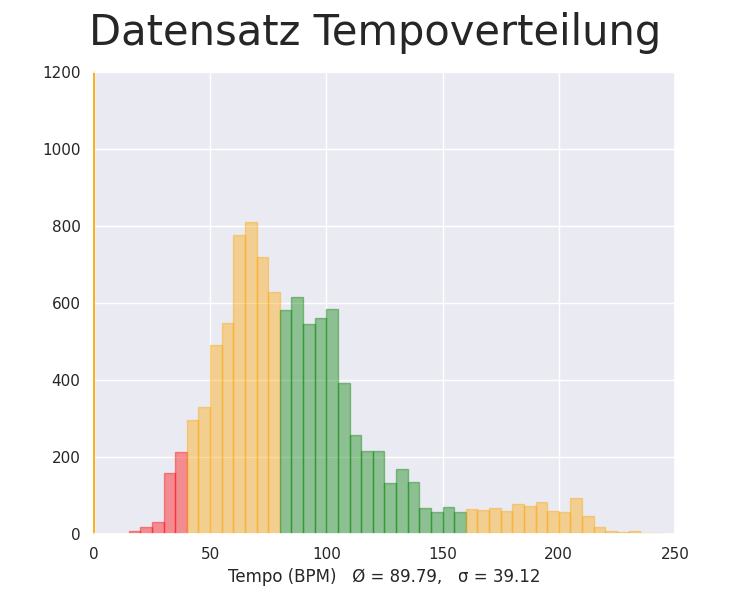
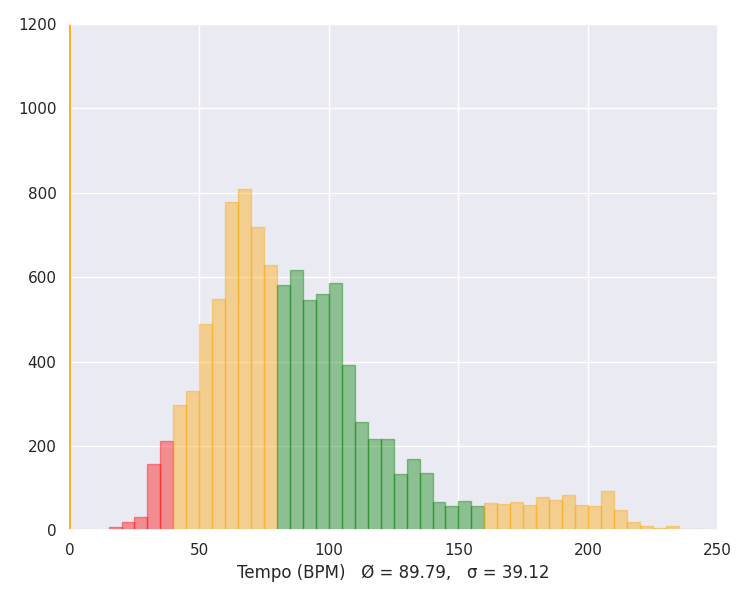
06 Ergebnisse und Auswertung/längste korrekte Beatfolge geschrieben

diff --git a/Arbeit/chapter/06_ergebnisse.tex b/Arbeit/chapter/06_ergebnisse.tex
@@ -2,14 +2,15 @@
 \label{ergebnisse}
 
 % TODO: entweder Bezug auf die Fragen aus Kapitel 5 nehmen oder se ganz weg lassen
+% TODO: nochma gucken, was genau in Ergebnisse und was in Auswertung kommt
 
 \section{Tempofehler}
 {
 	\subsection{Ergebnisse}
 	{
 		\begin{figure}[h]
-			\hspace{-2.8cm}
-			\includegraphics[scale=0.45]{resources/tempo_error_histogram.png}
+			\hspace{-17mm}
+			\includegraphics[scale=0.4]{resources/tempo_error_histogram.png}
 			\caption{
 				oben: Histogramme der Tempofehler, \\
 				unten: Anzahl der Lieder, bei denen das halbe/korrekte/doppelte Tempo erkannt wurde
@@ -115,15 +116,14 @@
 
 \section{Beatzeitpunktfehler}
 {
+	\label{ergebnisse/beatzeitpunktfehler}
+
 	\subsection{Ergebnisse}
 	{
 		\begin{figure}[h]
-			\includegraphics[scale=0.5]{resources/beat_positions.png}
-			\caption{
-				oben: Histogramme der Beatzeitpunktfehler, \\
-				mitte: Verteilung der längsten korrekten Beatfolgen, \\
-				unten: Anzahl der Lieder, bei denen die Beatfolge mit halbem/korrektem/doppeltem Tempo erkannt wurde.
-			}
+			\centering
+			\includegraphics[scale=0.47]{resources/beat_positions.png}
+			\caption{Histogramme der Beatzeitpunktfehler}
 			\label{fig:beaterror}
 		\end{figure}
 
@@ -144,7 +144,7 @@
 			\label{tab:pairnum}
 		\end{table}
 
-		In Abbildung~\ref{fig:beaterror} oben ist die Verteilung der Fehler aller Beatpaare zu sehen.
+		In Abbildung~\ref{fig:beaterror} ist die Verteilung der Fehler aller Beatpaare zu sehen.
 		Die Histogramme zeigen nur die Fehler,
 			der gepaarten Beats,
 			enthalten jedoch keine Informationen über die ungepaarten Beatvorhersagen.
@@ -154,12 +154,6 @@
 			dass die Lieder,
 			je nachdem ob sie der Algorithmus mit halbem, korrektem oder doppeltem Tempo erkennt,
 			unterschiedlich viele Beats haben.
-		Die Graphen in der Mitte von Abbildung~\ref{fig:beaterror} zeigen eine vertikel gespiegelte kumulative Verteilunsfunktion.
-		So kann man für jede Beatfolgenlänge ablsesen,
-			in wievielen Liedern (prozentual) eine korrekte Beatfolge mit mindestens dieser Länge erkannt wurde.
-		Die Balkendiagramme unten zeigen pro Algorithmus,
-			bei wievielen Liedern eine Beatfolge mit halbem, korrektem oder doppeltem Tempo als Referenzbeatfolge genommen wurde.
-		Ob die Referenzbeatfolge um $\pi$ phasenverschoben wurde, oder nicht, ist nicht zu sehen.
 	}
 
 	\subsection{Auswertung}
@@ -197,8 +191,34 @@
 
 \section{längste korrekte Beatfolge}
 {
-	Die längste korrekte Beatfolge von~\cite{2009_DaPlSt} ist \num{86}.
-	\cite{2011_RoPlSt} hingegen hat Beatfolge von \num{39} Schlägen korrekt erfasst.
+	\subsection{Ergebnisse}
+	{
+		% TODO: wäre sau geil, wenn beide Kurven in einem Diagram wären
+		\begin{figure}[h]
+			\centering
+			\includegraphics[scale=0.47]{resources/longest_streak.png}
+			\caption{Verteilung der längsten korrekten Beatfolgen}
+			\label{fig:longest_streak}
+		\end{figure}
+
+		Die Graphen in Abbildung~\ref{fig:longest_streak} zeigen eine vertikel gespiegelte kumulative Verteilunsfunktion.
+		So kann man für jede Beatfolgenlänge ablsesen,
+			in wievielen Liedern (prozentual) eine korrekte Beatfolge mit mindestens dieser Länge erkannt wurde.
+
+		Die längste korrekte Beatfolge von~\cite{2009_DaPlSt} ist \num{86}.
+		\cite{2011_PlRoSt} hingegen hat maximal eine  Beatfolge von \num{30} Schlägen korrekt erfasst.
+		Generell hat~\cite{2009_DaPlSt} für jede beliebige Beatfolgenlänge eine größere Anzahl an Liedern,
+			bei denen eine mindesten so lange Beatfolge korrekt erfasst wurde.
+	}
+
+	\subsection{Auswertung}
+	{
+		Die Ergebnisse hier lassen sich genauso wie die Ergebnisse in Abschnitt~\ref{ergebnisse/beatzeitpunktfehler} erklären.
+		Wahrscheinlich hat~\cite{2011_PlRoSt} das Tempo zu schnell geschätzt,
+			wodurch zu viele Beatzeitpunkte ausgegeben wurden.
+		Dadurch wird natürlich jede lange korrekte Beatfolge durch viele ungepaarte Beats unterbrochen.
+	}
+
 }
 
 \section{Rechenzeit}

diff --git a/Testdatenauswertung/beat_positions.py b/Testdatenauswertung/beat_positions.py
@@ -20,15 +20,19 @@ def main(args: argparse.Namespace):
 		if ex in tr_file_groups:
 			del tr_file_groups[ex]
 
-	fig, axes = plt.subplots(
-		3, len(tr_file_groups),
-		figsize=(6 * len(tr_file_groups), 3 * 6)
+	fig0, axes0 = plt.subplots(
+		1, len(tr_file_groups),
+		figsize=(6 * len(tr_file_groups), 1 * 6)
+	)
+	fig1, axes1 = plt.subplots(
+		1, len(tr_file_groups),
+		figsize=(6 * len(tr_file_groups), 1 * 6)
 	)
 
 	for s, (system, tr_fnames) in enumerate(tr_file_groups.items()):
 		all_pairs = []
 		streak_lengths = []
-		i_cnt = {0: 0, 1: 0, 2: 0}
+		# i_cnt = {0: 0, 1: 0, 2: 0}
 
 		n_correct_beats = 0
 		n_predicted_beats = 0
@@ -40,7 +44,7 @@ def main(args: argparse.Namespace):
 
 			best_steak = []
 			best_streak_pairs = []
-			best_streak_ij = (None, None)
+			# best_streak_ij = (None, None)
 			best_alt_gt_beats = []
 
 			for i in range(3):
@@ -57,12 +61,12 @@ def main(args: argparse.Namespace):
 					if len(streak) > len(best_steak):
 						best_steak = streak
 						best_streak_pairs = pairs
-						best_streak_ij = (i, j)
+						# best_streak_ij = (i, j)
 						best_alt_gt_beats = alt_gt_beats
 
 			all_pairs.extend(best_streak_pairs)
 			streak_lengths.append(len(best_steak))
-			i_cnt[best_streak_ij[0]] += 1
+			# i_cnt[best_streak_ij[0]] += 1
 			n_correct_beats += len(best_alt_gt_beats)
 			n_predicted_beats += len(tr_beats)
 
@@ -78,26 +82,26 @@ def main(args: argparse.Namespace):
 		)
 
 		sb.distplot(
-			errors, ax=axes[0, s],
+			errors, ax=axes0[s],
 			hist=True, kde=False,
 			bins=[i / 20.0 for i in range(21)]
 		)
-		axes[0, s].set_xlim(0, 1)
-		axes[0, s].set_xlabel(f'Normalisierter Fehler')
-		axes[0, s].set_ylim(0, 1200)
-		axes[0, s].set_title(SYSTEM_TO_TITLE[system], fontsize=16)
+		axes0[s].set_xlim(0, 1)
+		axes0[s].set_xlabel(f'Normalisierter Fehler')
+		axes0[s].set_ylim(0, 1200)
+		axes0[s].set_title(SYSTEM_TO_TITLE[system], fontsize=16)
 
 		sb.distplot(
-			streak_lengths, ax=axes[1, s],
+			streak_lengths, ax=axes1[s],
 			hist=False, kde=True,
 			kde_kws={'cumulative': True}
 		)
-		axes[1, s].set_xlim(0, 90)
-		axes[1, s].invert_yaxis()
-		axes[1, s].set_yticklabels(['100', '80', '60', '40', '20', '0'])
-		axes[1, s].set_ylabel('Anzahl der Lieder (prozentual)')
+		axes1[s].set_xlim(0, 90)
+		axes1[s].invert_yaxis()
+		axes1[s].set_yticklabels(['100', '80', '60', '40', '20', '0'])
+		axes1[s].set_ylabel('Anzahl der Lieder (prozentual)')
 		percs = percentiles(streak_lengths, [0.0, 0.2, 0.5, 0.8, 1.0])
-		axes[1, s].set_xlabel(
+		axes1[s].set_xlabel(
 			f'längste korrekte Beatfolge (1 - CDF)\n'
 			f'min: {percs[0]},   '
 			f'80%: {percs[1]},   '
@@ -105,21 +109,24 @@ def main(args: argparse.Namespace):
 			f'20%: {percs[3]},   '
 			f'max: {percs[4]}'
 		)
+		axes1[s].set_title(SYSTEM_TO_TITLE[system], fontsize=16)
 
-		sb.barplot(
-			ax=axes[2, s],
-			x=['halb', 'korrekt', 'doppelt'],
-			y=[v for k, v in sorted(i_cnt.items())]
-		)
-		axes[2, s].set_ylim(0, 150)
+	# sb.barplot(
+		# 	ax=axes[2, s],
+		# 	x=['halb', 'korrekt', 'doppelt'],
+		# 	y=[v for k, v in sorted(i_cnt.items())]
+		# )
+		# axes[2, s].set_ylim(0, 150)
 
-	fig.suptitle('', fontsize=30)
-	fig.savefig(
-		args.output,
-		dpi=args.dpi,
-		pad_inches=0
-	)
-	logging.info(f'Created PNG file {args.output}')
+	fig0.suptitle('', fontsize=30)
+	fig0.tight_layout()
+	fig0.savefig(args.output[0], dpi=args.dpi, pad_inches=0)
+	logging.info(f'Created PNG file {args.output[0]}')
+
+	fig1.suptitle('', fontsize=30)
+	fig1.tight_layout()
+	fig1.savefig(args.output[1], dpi=args.dpi, pad_inches=0)
+	logging.info(f'Created PNG file {args.output[1]}')
 
 
 def assert_args(args: argparse.Namespace):
@@ -329,8 +336,9 @@ def parse_args() -> argparse.Namespace:
 
 	parser.add_argument(
 		'-o', '--output',
+		nargs=2,
 		required=True,
-		help='file name of the output PNG-file'
+		help='file names of the two output PNG-files'
 	)
 
 	parser.add_argument(

diff --git a/Testdatenauswertung/tempo_error_histogram.py b/Testdatenauswertung/tempo_error_histogram.py
@@ -41,19 +41,20 @@ def main(args: argparse.Namespace):
 		axes[0, i].set_xlim(-100, 100)
 		axes[0, i].set_ylim(0, 1200)
 		axes[0, i].set_xlabel(
-			f'Tempo Estimation Error (BPM)\n'
-			f'mean = {statistics.mean(errors):.4g},   '
+			f'Tempofehler (BPM)\n'
+			f'Ø = {statistics.mean(errors):.4g},   '
 			f'σ = {statistics.stdev(errors):.4g}')
 		axes[0, i].set_title(SYSTEM_TO_TITLE[system], fontsize=16)
 
 		sb.barplot(
 			ax=axes[1, i],
-			x=['half', 'correct', 'double'],
+			x=['halb', 'korrekt', 'doppelt'],
 			y=[v for k, v in sorted(error_triplet_idx_cnt.items())]
 		)
 		axes[1, i].set_ylim(0, 200)
 
-	fig.suptitle('Tempo Estimation Errors', fontsize=30)
+	# fig.suptitle('Tempo Estimation Errors', fontsize=30)
+	fig.tight_layout()
 	fig.savefig(
 		args.output,
 		dpi=args.dpi,

diff --git a/Testdatenauswertung/ground_truth_tempo_historgram.py b/Testdatenauswertung/ground_truth_tempo_historgram.py
@@ -35,7 +35,8 @@ def main(args: argparse.Namespace):
 		f'σ = {statistics.stdev(tempi):.4g}')
 	axes.set_title('', fontsize=16)
 
-	fig.suptitle('Datensatz Tempoverteilung', fontsize=30)
+	# fig.suptitle('Datensatz Tempoverteilung', fontsize=30)
+	fig.tight_layout()
 	fig.savefig(
 		args.output,
 		dpi=args.dpi,
